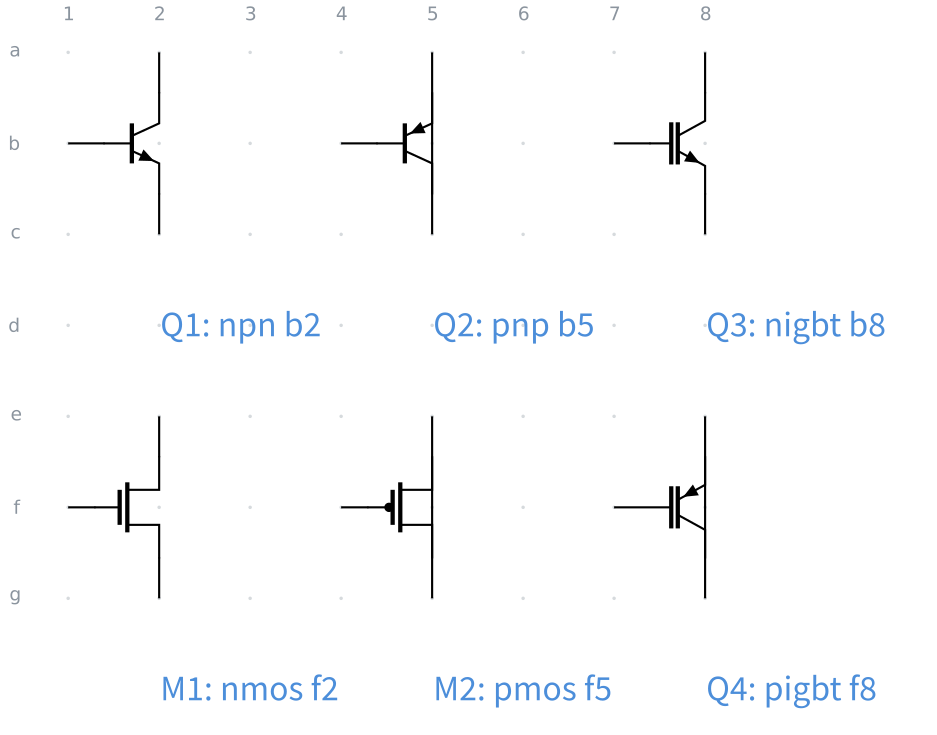
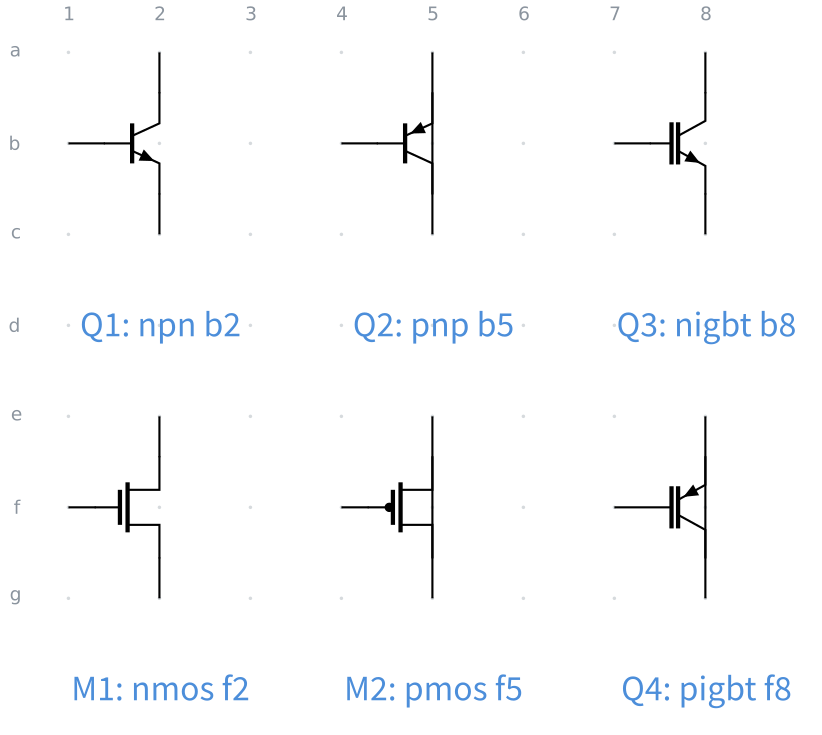
docs: 部品のコメントを記号の真下にセンタリングする
左端揃えだと、字が記号より右へずれて見えて、どの記号の説明なのかが
一目で分からなかった。記号の番地でセンタリングする。

- **ロジックゲート**は 1 行上げて記号の真下 (d1 → c2)。入力のリード線は
  1 列目に下りるので、2 列目に寄せた字とは噛まない
- **トランジスタ・FET** は行を上げない。ソース側のリード線が**記号と同じ列**に
  下りてきて、その終点がちょうど字を置きたいところにある。一度 c2 に置いて
  描いたら**線が字を貫いた**ので、1 行下げたまま (d2) センタリングだけ当てた

図は作り直して、どの記号でも線が字に噛んでいないことを目で見た。

🤖 Generated with [Claude Code](https://claude.com/claude-code)

diff --git a/examples/out/11-logic-1.tex b/examples/out/11-logic-1.tex
@@ -97,21 +97,21 @@
 \draw (part-U7.out) -| (f12); % line 30
 \draw (e13) |- (part-U8.in); % line 31
 \draw (part-U8.out) -| (f16); % line 32
-\path (0,-6.593) rectangle (3.81,-5.407); % line 34
-\node[anchor=west, inner sep=0, circuitnotemark, font=\large] at (0,-6) {X}; % line 34
-\path (8,-6.593) rectangle (11.556,-5.407); % line 35
-\node[anchor=west, inner sep=0, circuitnotemark, font=\large] at (8,-6) {X}; % line 35
-\path (16,-6.593) rectangle (20.318,-5.407); % line 36
-\node[anchor=west, inner sep=0, circuitnotemark, font=\large] at (16,-6) {X}; % line 36
-\path (24,-6.593) rectangle (28.064,-5.407); % line 37
-\node[anchor=west, inner sep=0, circuitnotemark, font=\large] at (24,-6) {X}; % line 37
-\path (0,-14.593) rectangle (3.81,-13.407); % line 38
-\node[anchor=west, inner sep=0, circuitnotemark, font=\large] at (0,-14) {X}; % line 38
-\path (8,-14.593) rectangle (12.318,-13.407); % line 39
-\node[anchor=west, inner sep=0, circuitnotemark, font=\large] at (8,-14) {X}; % line 39
-\path (16,-14.593) rectangle (20.064,-13.407); % line 40
-\node[anchor=west, inner sep=0, circuitnotemark, font=\large] at (16,-14) {X}; % line 40
-\path (24,-14.593) rectangle (28.826,-13.407); % line 41
-\node[anchor=west, inner sep=0, circuitnotemark, font=\large] at (24,-14) {X}; % line 41
+\path (0.095,-4.593) rectangle (3.905,-3.407); % line 34
+\node[anchor=west, inner sep=0, circuitnotemark, font=\large] at (2,-4) {X}; % line 34
+\path (8.222,-4.593) rectangle (11.778,-3.407); % line 35
+\node[anchor=west, inner sep=0, circuitnotemark, font=\large] at (10,-4) {X}; % line 35
+\path (15.841,-4.593) rectangle (20.159,-3.407); % line 36
+\node[anchor=west, inner sep=0, circuitnotemark, font=\large] at (18,-4) {X}; % line 36
+\path (23.968,-4.593) rectangle (28.032,-3.407); % line 37
+\node[anchor=west, inner sep=0, circuitnotemark, font=\large] at (26,-4) {X}; % line 37
+\path (0.095,-12.593) rectangle (3.905,-11.407); % line 38
+\node[anchor=west, inner sep=0, circuitnotemark, font=\large] at (2,-12) {X}; % line 38
+\path (7.841,-12.593) rectangle (12.159,-11.407); % line 39
+\node[anchor=west, inner sep=0, circuitnotemark, font=\large] at (10,-12) {X}; % line 39
+\path (15.968,-12.593) rectangle (20.032,-11.407); % line 40
+\node[anchor=west, inner sep=0, circuitnotemark, font=\large] at (18,-12) {X}; % line 40
+\path (23.587,-12.593) rectangle (28.413,-11.407); % line 41
+\node[anchor=west, inner sep=0, circuitnotemark, font=\large] at (26,-12) {X}; % line 41
 \end{circuitikz}
 \end{document}

diff --git a/examples/out/03-multi-terminal-3.tex b/examples/out/03-multi-terminal-3.tex
@@ -70,17 +70,17 @@
 \draw (i5) -| (part-M4.drain); % line 24
 \draw (k5) -| (part-M4.source); % line 25
 \draw (j4) -| (part-M4.gate); % line 26
-\path (1.2,-4.193) rectangle (4.248,-3.007); % line 28
+\path (-0.324,-4.193) rectangle (2.724,-3.007); % line 28
 \node[anchor=west, inner sep=0, circuitnotemark, font=\large] at (1.2,-3.6) {X}; % line 28
-\path (4.8,-4.193) rectangle (7.848,-3.007); % line 29
+\path (3.276,-4.193) rectangle (6.324,-3.007); % line 29
 \node[anchor=west, inner sep=0, circuitnotemark, font=\large] at (4.8,-3.6) {X}; % line 29
-\path (1.2,-8.993) rectangle (4.502,-7.807); % line 30
+\path (-0.451,-8.993) rectangle (2.851,-7.807); % line 30
 \node[anchor=west, inner sep=0, circuitnotemark, font=\large] at (1.2,-8.4) {X}; % line 30
-\path (4.8,-8.993) rectangle (8.102,-7.807); % line 31
+\path (3.149,-8.993) rectangle (6.451,-7.807); % line 31
 \node[anchor=west, inner sep=0, circuitnotemark, font=\large] at (4.8,-8.4) {X}; % line 31
-\path (1.2,-13.793) rectangle (4.502,-12.607); % line 32
+\path (-0.451,-13.793) rectangle (2.851,-12.607); % line 32
 \node[anchor=west, inner sep=0, circuitnotemark, font=\large] at (1.2,-13.2) {X}; % line 32
-\path (4.8,-13.793) rectangle (8.102,-12.607); % line 33
+\path (3.149,-13.793) rectangle (6.451,-12.607); % line 33
 \node[anchor=west, inner sep=0, circuitnotemark, font=\large] at (4.8,-13.2) {X}; % line 33
 \end{circuitikz}
 \end{document}

diff --git a/examples/out/03-multi-terminal-1.tex b/examples/out/03-multi-terminal-1.tex
@@ -69,17 +69,17 @@
 \draw (e8) -| (part-Q4.collector); % line 24
 \draw (g8) -| (part-Q4.emitter); % line 25
 \draw (f7) -| (part-Q4.gate); % line 26
-\path (1.2,-4.193) rectangle (3.74,-3.007); % line 28
+\path (-0.07,-4.193) rectangle (2.47,-3.007); % line 28
 \node[anchor=west, inner sep=0, circuitnotemark, font=\large] at (1.2,-3.6) {X}; % line 28
-\path (4.8,-4.193) rectangle (7.34,-3.007); % line 29
+\path (3.53,-4.193) rectangle (6.07,-3.007); % line 29
 \node[anchor=west, inner sep=0, circuitnotemark, font=\large] at (4.8,-3.6) {X}; % line 29
-\path (8.4,-4.193) rectangle (11.448,-3.007); % line 30
+\path (6.876,-4.193) rectangle (9.924,-3.007); % line 30
 \node[anchor=west, inner sep=0, circuitnotemark, font=\large] at (8.4,-3.6) {X}; % line 30
-\path (1.2,-8.993) rectangle (3.994,-7.807); % line 31
+\path (-0.197,-8.993) rectangle (2.597,-7.807); % line 31
 \node[anchor=west, inner sep=0, circuitnotemark, font=\large] at (1.2,-8.4) {X}; % line 31
-\path (4.8,-8.993) rectangle (7.594,-7.807); % line 32
+\path (3.403,-8.993) rectangle (6.197,-7.807); % line 32
 \node[anchor=west, inner sep=0, circuitnotemark, font=\large] at (4.8,-8.4) {X}; % line 32
-\path (8.4,-8.993) rectangle (11.448,-7.807); % line 33
+\path (6.876,-8.993) rectangle (9.924,-7.807); % line 33
 \node[anchor=west, inner sep=0, circuitnotemark, font=\large] at (8.4,-8.4) {X}; % line 33
 \end{circuitikz}
 \end{document}

diff --git a/examples/03-multi-terminal.md b/examples/03-multi-terminal.md
@@ -31,12 +31,12 @@ wires:
   - g8 -| Q4.E
   - f7 -| Q4.G
 notes:
-  - text d2 blue large: "Q1: npn b2"
-  - text d5 blue large: "Q2: pnp b5"
-  - text d8 blue large: "Q3: nigbt b8"
-  - text h2 blue large: "M1: nmos f2"
-  - text h5 blue large: "M2: pmos f5"
-  - text h8 blue large: "Q4: pigbt f8"
+  - text d2 blue large center: "Q1: npn b2"
+  - text d5 blue large center: "Q2: pnp b5"
+  - text d8 blue large center: "Q3: nigbt b8"
+  - text h2 blue large center: "M1: nmos f2"
+  - text h5 blue large center: "M2: pmos f5"
+  - text h8 blue large center: "Q4: pigbt f8"
 style:
   grid: on
   pitch: 1.2
@@ -117,12 +117,12 @@ wires:
   - k5 -| M4.S
   - j4 -| M4.G
 notes:
-  - text d2 blue large: "J1: njfet b2"
-  - text d5 blue large: "J2: pjfet b5"
-  - text h2 blue large: "M1: nmos-e f2"
-  - text h5 blue large: "M2: pmos-e f5"
-  - text l2 blue large: "M3: nmos-d j2"
-  - text l5 blue large: "M4: pmos-d j5"
+  - text d2 blue large center: "J1: njfet b2"
+  - text d5 blue large center: "J2: pjfet b5"
+  - text h2 blue large center: "M1: nmos-e f2"
+  - text h5 blue large center: "M2: pmos-e f5"
+  - text l2 blue large center: "M3: nmos-d j2"
+  - text l5 blue large center: "M4: pmos-d j5"
 style:
   grid: on
   pitch: 1.2

diff --git a/examples/11-logic.md b/examples/11-logic.md
@@ -37,14 +37,14 @@ wires:
   - e13 |- U8.in
   - U8.out -| f16
 notes:
-  - text d1 blue large: "U1: and b2 7408"
-  - text d5 blue large: "U2: or b6 7432"
-  - text d9 blue large: "U3: nand b10 7400"
-  - text d13 blue large: "U4: nor b14 7402"
-  - text h1 blue large: "U5: xor f2 7486"
-  - text h5 blue large: "U6: xnor f6 74266"
-  - text h9 blue large: "U7: not f10 7404"
-  - text h13 blue large: "U8: buffer f14 7407"
+  - text c2 blue large center: "U1: and b2 7408"
+  - text c6 blue large center: "U2: or b6 7432"
+  - text c10 blue large center: "U3: nand b10 7400"
+  - text c14 blue large center: "U4: nor b14 7402"
+  - text g2 blue large center: "U5: xor f2 7486"
+  - text g6 blue large center: "U6: xnor f6 74266"
+  - text g10 blue large center: "U7: not f10 7404"
+  - text g14 blue large center: "U8: buffer f14 7407"
 style:
   grid: on
 ```
